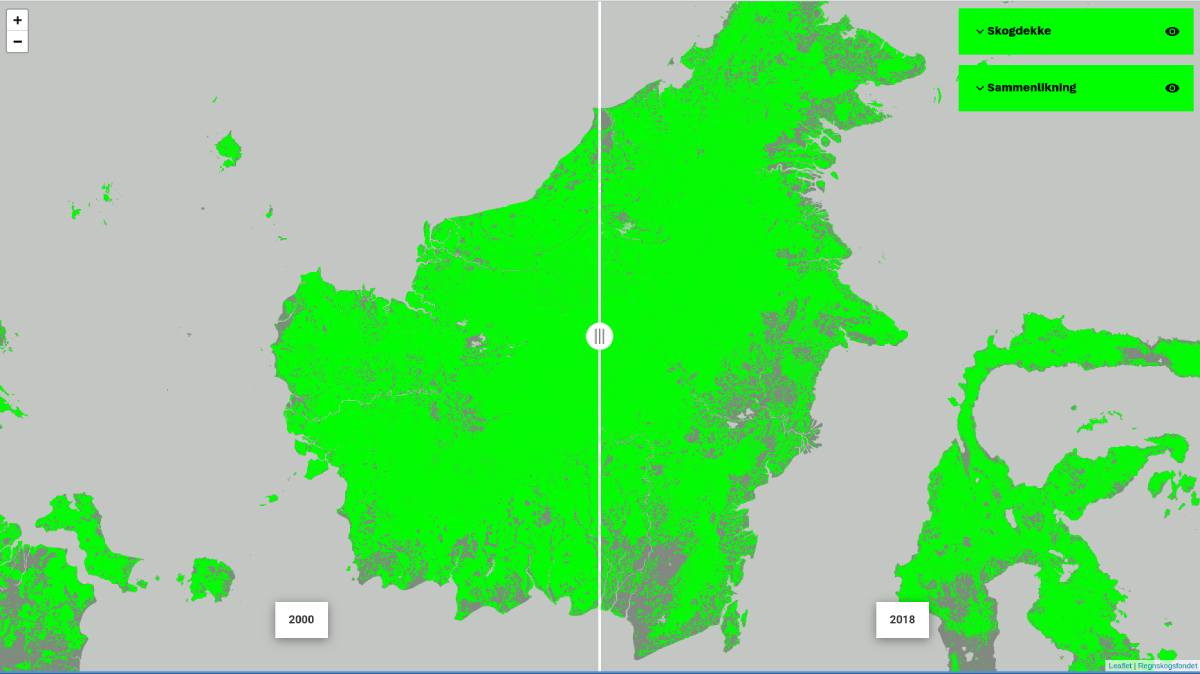
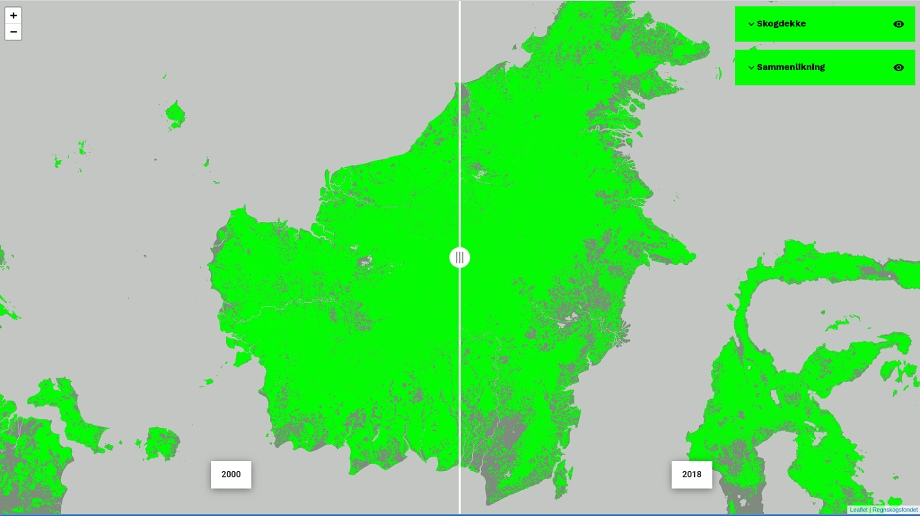
update 13 with a view

diff --git a/www/31dagermeddata/index.html b/www/31dagermeddata/index.html
@@ -32,9 +32,10 @@
             Takket være nøyaktige satellittbilder har vi kunnet bygge denne visualiserinegn for vår kunde <a href="https://regnskog.no">regnskogsfondet</a>
           </p>
           <p>
-            <div style="width: 100%; height: 400; background: url(https://kartoteket.as/31dagermeddata/dager/13/kart.jpg); background-size: auto; ">
+            <a href="https://kartoteket.as/31dagermeddata/dager/13/">
+            <div style="width: 100%; height: 400px; background: url(https://kartoteket.as/31dagermeddata/dager/13/kart.jpg); background-size: auto; ">
             
-            </div>
+            </div></a>
             Kart i fullskjerm <a href="https://kartoteket.as/31dagermeddata/dager/13/">https://kartoteket.as/31dagermeddata/dager/13/</a>
           </p>
         </article>
